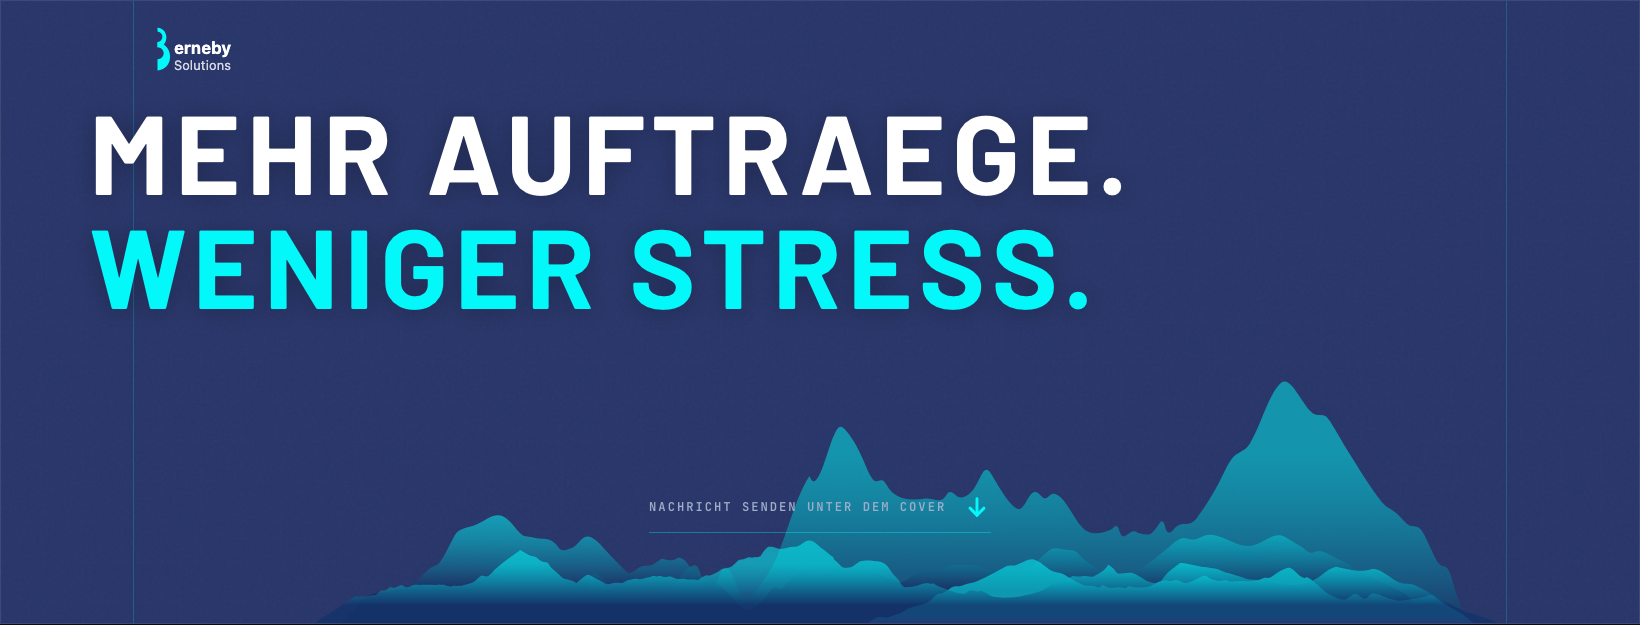
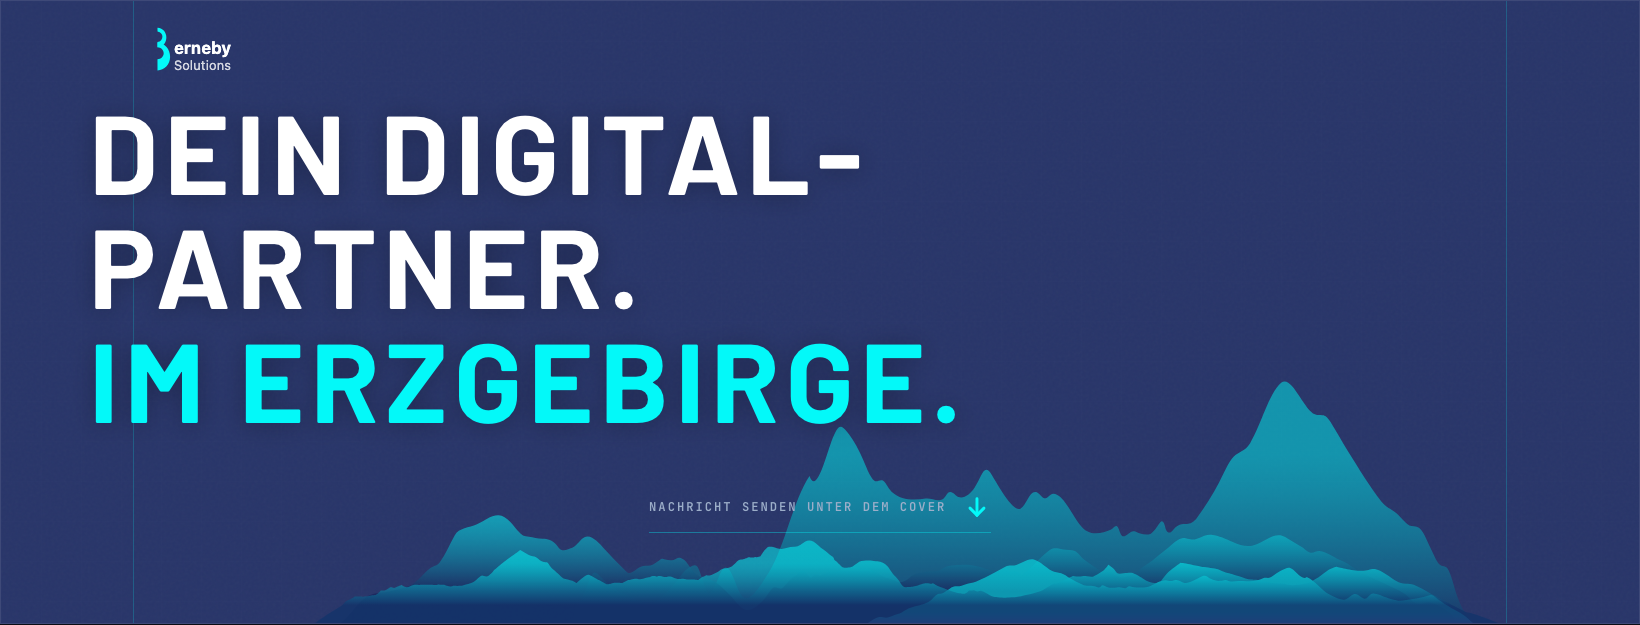
chore: Facebook cover headline DEIN DIGITAL-PARTNER
Made-with: Cursor

Changed region(s): [[0.0311, 0.3648, 0.6841, 0.5168], [0.0622, 0.1824, 0.6841, 0.3344], [0.0311, 0.5472, 0.5909, 0.6992]]

diff --git a/components/socials/facebook-cover-content.tsx b/components/socials/facebook-cover-content.tsx
@@ -7,9 +7,9 @@ export function FacebookCoverContent() {
       <div className="w-full">
         {/* Safe-Zone: left/right = 220px, Beams: left/right = 132px -> Headline startet bewusst bei ~132px (Beam-Overlap wie im Home-Hero) */}
         <h1 className="ml-[-132px] w-full font-display text-[120px] font-extrabold uppercase leading-[0.9] tracking-tight text-white drop-shadow-[0_2px_12px_rgba(0,0,0,0.25)]">
-          MEHR AUFTRAEGE.
+          DEIN DIGITAL-PARTNER.
           <br />
-          <span className="text-brand-cyan">WENIGER STRESS.</span>
+          <span className="text-brand-cyan">IM ERZGEBIRGE.</span>
         </h1>
       </div>
 
